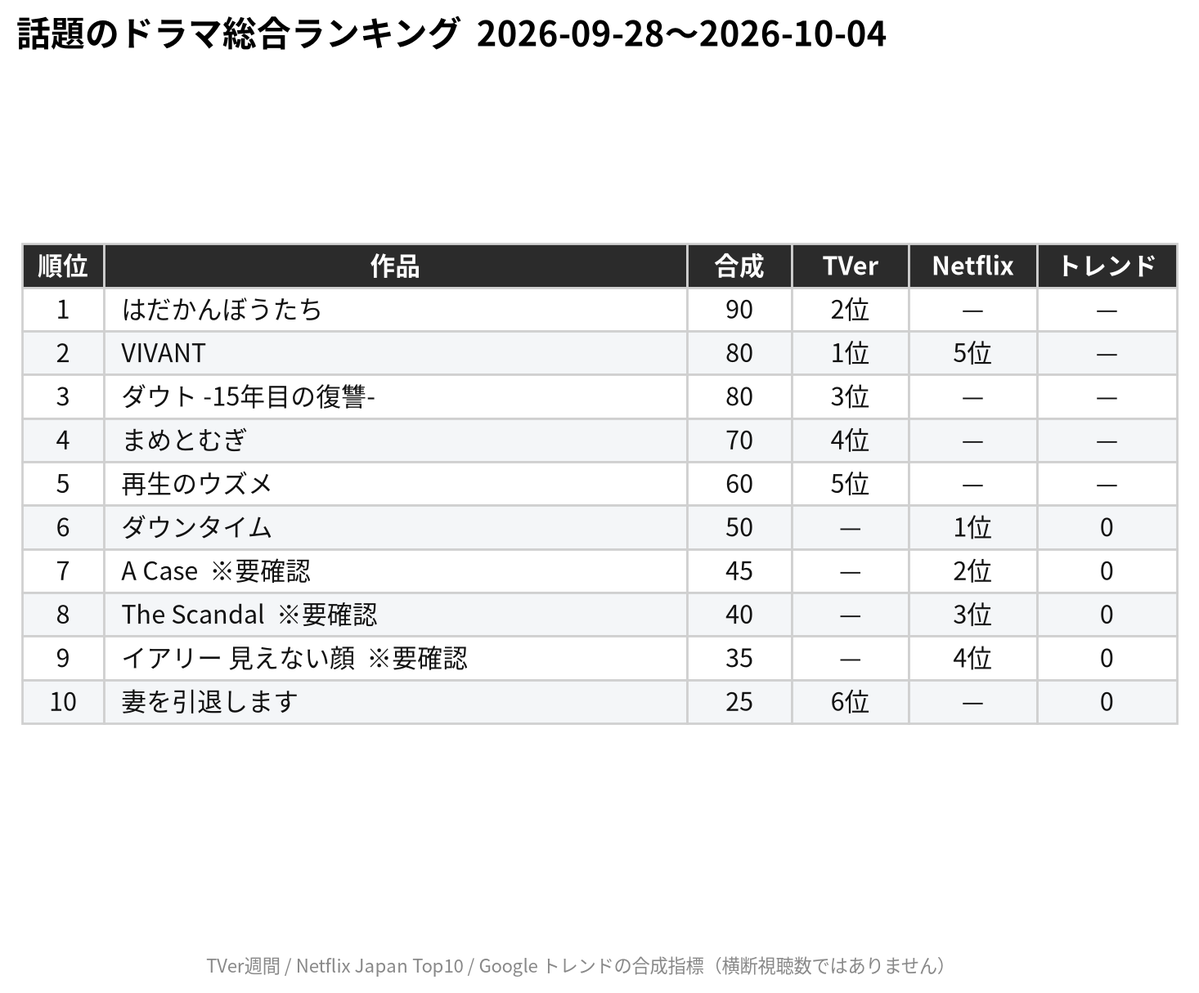
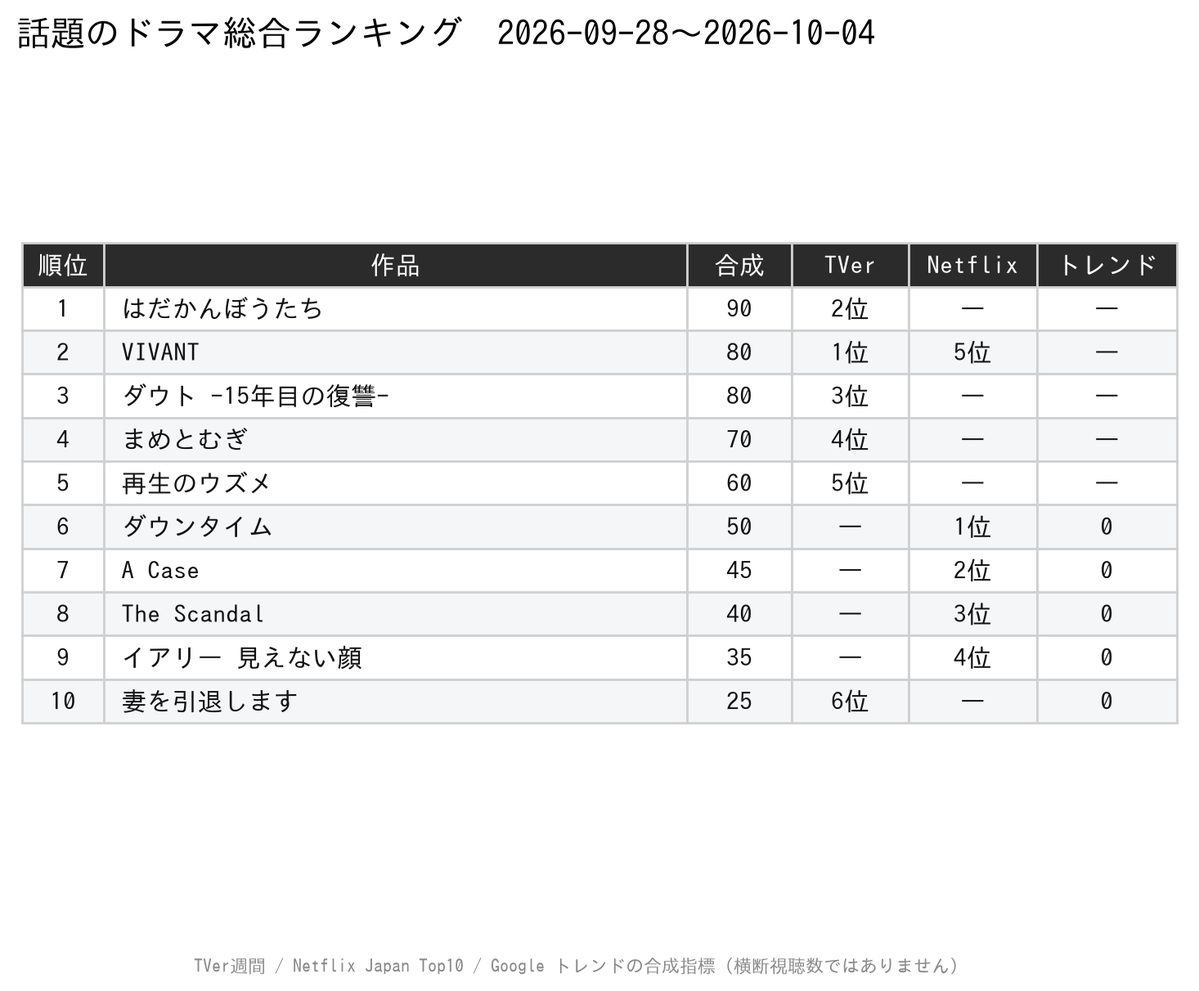
content(3-drama): 2026-W40 分析執筆
- 10月期新ドラマ初回が中心の週。各作品の分析・あらすじを執筆
- TMDB誤マッチ3件（A Case/The Scandal/イアリー 見えない顔）をWebSearchで同定し
  match_confidenceをok化、ランキング表画像を再生成
- 今号はアフィリエイトなし扱いのため、広告表記行を削除しAmazon Prime Videoリンクを
  プレーンテキスト化
- make_eyecatch.pyの日本語フォント候補にIPAGothic/TakaoPGothicを追加（本番環境で
  文字化けしていたのを修正、make_ig_table.py側のリストに合わせた）
- IG用ランキング表・サムネイル（note/IG）を生成、published/2026-W40.mdを作成（URL等は未記入）

Claude-Session: https://claude.ai/code/session_01VYnqwGLcbHKFEVPDxWgBKk

diff --git a/dev/3-drama/assets/make_eyecatch.py b/dev/3-drama/assets/make_eyecatch.py
@@ -24,8 +24,8 @@ import numpy as np  # noqa: E402
 from matplotlib import font_manager  # noqa: E402
 from PIL import Image  # noqa: E402
 
-for _name in ("Yu Gothic", "Meiryo", "MS Gothic", "IPAexGothic",
-              "Hiragino Sans", "Noto Sans CJK JP", "Noto Sans JP"):
+for _name in ("Yu Gothic", "Meiryo", "MS Gothic", "IPAexGothic", "IPAGothic",
+              "TakaoPGothic", "Hiragino Sans", "Noto Sans CJK JP", "Noto Sans JP"):
     try:
         if font_manager.findfont(_name, fallback_to_default=False):
             matplotlib.rcParams["font.family"] = _name

diff --git a/dev/3-drama/drafts/2026-W40.md b/dev/3-drama/drafts/2026-W40.md
@@ -1,118 +1,106 @@
-> この記事はプロモーション（アフィリエイトリンク）を含みます。
-
 ## 話題のドラマ総合ランキング（2026-W40 / 2026-09-28 〜 2026-10-04）
 
 TVer週間ランキング・Netflix Japan 週間Top10・Google検索トレンドを合成した「話題度」の総合指標です。横断的な視聴数そのものを測ったものではありません。対象は民放ドラマ＋配信ドラマ（NHK作品・アニメ・リアリティ番組は指標の性質上ランク外）。
 
+（ここにランキング表の画像 2026-W40.png を挿入）
+
 | 順位 | 作品 | 合成 | TVer(A) | Netflix(B) | トレンド(C) | 話数 | 主な視聴方法 |
 |---|---|---|---|---|---|---|---|
-| 1 | はだかんぼうたち | 90.0 | 2位 | — | — | 第1話まで | テレビ朝日系 |
-| 2 | VIVANT | 80.0 | 1位 | 5位 | — | 第8話まで | TBS系／Netflix／Amazon Prime Video |
-| 3 | ダウト -15年目の復讐- | 80.0 | 3位 | — | — | 第1話まで | 読売テレビ系／Hulu |
-| 4 | まめとむぎ | 70.0 | 4位 | — | — | 第1話まで | テレ東系 |
-| 5 | 再生のウズメ | 60.0 | 5位 | — | — | 第1話まで | フジテレビ系／FOD |
-| 6 | ダウンタイム | 50.0 | — | 1位 | 0.0 | 第8話まで | Netflix |
-| 7 | A Case ⚠別作品の可能性 | 45.0 | — | 2位 | 0.0 | 【話数要確認】 | 【要確認】 |
-| 8 | The Scandal ⚠別作品の可能性 | 40.0 | — | 3位 | 0.0 | 第6話まで【要確認】 | 【要確認】 |
-| 9 | イアリー 見えない顔 ⚠別作品の可能性 | 35.0 | — | 4位 | 0.0 | 第6話まで【要確認】 | Netflix／Amazon Prime Video |
-| 10 | 妻を引退します | 25.0 | 6位 | — | 0.0 | 【話数要確認】 | テレ東系 |
+| 1 | はだかんぼうたち | 90.0 | 2位 | — | — | 第1話 | テレビ朝日系 |
+| 2 | VIVANT | 80.0 | 1位 | 5位 | — | 第2S第9話（通算19話） | TBS系／Netflix／Amazon Prime Video |
+| 3 | ダウト -15年目の復讐- | 80.0 | 3位 | — | — | 第1話 | 読売テレビ系／Hulu |
+| 4 | まめとむぎ | 70.0 | 4位 | — | — | 第1話 | テレ東系 |
+| 5 | 再生のウズメ | 60.0 | 5位 | — | — | 第1話 | フジテレビ系／FOD |
+| 6 | ダウンタイム | 50.0 | — | 1位 | 0.0 | 全8話（配信済み） | Netflix |
+| 7 | THE CASE/ケース（原題: A Case） | 45.0 | — | 2位 | 0.0 | 全5話 | Netflix |
+| 8 | スキャンダル（原題: The Scandal） | 40.0 | — | 3位 | 0.0 | 全8話（一挙配信） | Netflix |
+| 9 | イアリー 見えない顔 | 35.0 | — | 4位 | 0.0 | 全6話（2018年放送） | Netflix／Amazon Prime Video |
+| 10 | 妻を引退します | 25.0 | 6位 | — | 0.0 | 第1話【要確認】 | テレ東系 |
 
 出典: TVer週間ランキング（2026-10-04時点）／ Netflix Tudum Top 10 Japan（2026-10-04時点）／ Google トレンド（2026-09-28〜2026-10-04）
+※TVer(A)はTVer週間ランキング（見逃し配信・ドラマ）の順位、Netflix(B)はNetflix Japan週間Top10（TV部門）の順位です。「話数」欄は自動集計（TMDB）の値を基にした目安で、放送話数とのズレがある作品は本文中で実際の放送回に基づき補足しています。なお対象週は10月期新ドラマの初回が集中したため、1〜5位の作品はGoogleトレンドのデータが今号では取得できておらず（取得不具合）、TVerの実績のみでスコアを算出しています。
 
 ## 各作品
 
-### 1位: はだかんぼうたち（第1話まで）
+### 1位: はだかんぼうたち（第1話／10月3日放送開始）
 
-- **あらすじ**: 惹かれるままに女性と無邪気に夜を重ねる靴職人の鯖崎
+- **あらすじ**: 靴職人の鯖崎涼（松田元太）は、特定の相手に縛られず複数の女性と関係を重ねる生き方をしている。歯科医の筒井桃（加藤ローサ）とは割り切った関係を保ちながら、桃の友人で3児の母である堀田響子（大沢あかね）にも惹かれていき、危うい三角関係が動き出す。江國香織の同名長編小説を初めて映像化した大人のラブストーリー。
+- **視聴方法**: テレビ朝日系で放送（土曜23:00〜23:30）／見逃し配信 TVer
+- **人気の理由**: Travis Japan・松田元太のテレビ朝日連続ドラマ初主演作であることと、江國香織の人気小説の初映像化という2点が放送前から話題の軸になっていた。10月3日放送の第1話は、対象週（9/28〜10/4）のうち放送のあった1日だけの実績にもかかわらずTVer週間ランキング2位に入り、見逃し配信側で強い反応を集めたとみられる。一方Netflix・Googleトレンドの両コンポーネントは今回は合成スコアに含まれておらず（Netflixは対象外、トレンドは今号のデータ取得不具合により欠落）、現時点ではTVerの数字のみでの評価になる点に留意したい。初回の反応がどこまで続くかは来週号で見えてくる。
 
-10歳年上の歯科医・桃に都合の良い“恋人もどきの関係”を求める一方、
+### 2位: VIVANT（第2シーズン第9話・通算第19話／10月4日放送、2週の休止明け）
 
-桃の親友で3児の母・響子にも興味を持ち――
+- **あらすじ**: 丸菱商事の社員・乃木憂助（堺雅人）は、誤送金された130億円を追ってバルカ共和国へ渡ったことから、公安警察の野崎守（阿部寛）、医師の柚木薫（二階堂ふみ）とともに国家を揺るがす謀略に巻き込まれていく。2023年放送の第1シーズンに続き、2026年7月からTBS「日曜劇場」で第2シーズンを放送中。
+- **視聴方法**: TBS系で放送（日曜21時）／見逃し配信 TVer ／ 定額配信は Netflix・Amazon Prime Video・Disney+・U-NEXT
+- **人気の理由**: アジア大会（愛知・名古屋）の中継のため9月20日・27日と2週連続で放送休止していたVIVANTは、対象週最終日の10月4日に第9話（通算第19話）で放送を再開した。休止直前の第8話（通算18話・9月13日放送）は世帯視聴率15.0%・個人9.8%と報じられており、放送5週連続で世帯15%超を記録していた【要確認: 第19話（10/4放送）自体の視聴率は本稿執筆時点で未発表】。再開直後の反応を映して対象週のTVer週間ランキングは1位（スコア100.0）まで上昇した一方、Netflix週間Top10（TV部門）は5位・17週連続ランクインにとどまり、検索トレンドは今号のデータでは取得できていない。休止明け直後の号だけに、来週号でTVer・Netflixの数字がどこまで伸びるかが焦点になる。なお、シーズン全体は11月8日に最終回を迎える予定と報じられている【要確認】。
 
-危険で赤裸々な大人の三角関係が幕を開ける
-  - ※TMDB由来。公式サイトで確認し、自分の言葉に書き直すこと
-- **視聴方法**: テレビ朝日系で放送／見逃し配信 TVer
-- **人気の理由（AI分析）**: 【ranking-writer 記入】事実（キャスト・原作・話題の出来事）と指標の動き（トレンドがスパイク型かじわ伸びか／TVerとNetflixどちらで強いか）を根拠に
+### 3位: ダウト -15年目の復讐-（第1話／10月1日放送開始）
 
-### 2位: VIVANT（第8話まで）
+- **あらすじ**: 臨床心理士の安堂楓（仁村紗和）は15年前、連続殺人犯「コウモリ」に両親を殺害された被害者遺族で、監禁された経験から人並み外れた聴力を得た。血のつながらない弟で刑事の奥沢雪路（佐藤大樹）とともに、聴力を武器に事件の真相と復讐を追う完全オリジナルサスペンス。
+- **視聴方法**: 読売テレビ・日本テレビ系で放送（木曜23:59〜24:54、全13話）／見逃し配信 TVer ／ 定額配信は Hulu
+- **人気の理由**: 10月1日に放送が始まったオリジナルサスペンスで、主演の仁村紗和・佐藤大樹に加え細田善彦、中田青渚らが脇を固める。初回放送はTVer週間ランキング3位に入り、「聴力で心の内を見抜く」という設定の目新しさが見逃し配信側の関心を集めたとみられる。Netflix・検索トレンドは今号の集計対象に入っておらず、現時点ではTVer発の反応が中心。全13話の連続サスペンスとして、今後の話数進行とともに他指標がどう動くか注目したい。
 
-- **あらすじ**: 丸菱商事に勤める乃木憂助（堺雅人）は、誤送金された１３０億円を取り戻すべく、送金先であるバルカ共和国へ向かった。その後、乃木は誤送金の犯人だと疑われ、１３０億円を取り戻さなければ懲戒解雇の危機に…！そんな中、バルカで爆発に巻き込まれた乃木は、爆破犯に間違えられ、バルカ警察に追われる羽目となる。現地で出会った公安警察の野崎守（阿部寛）と医師の柚木薫（二階堂ふみ）と共に、乃木はバルカを脱出するために奔走する…。果たして乃木は、１３０億円を取り戻すことができるのか？そして、鍵を握る「VIVANT」とは一体何なのか？
-  - ※TMDB由来。公式サイトで確認し、自分の言葉に書き直すこと
-- **視聴方法**: TBS系で放送／見逃し配信 TVer ／ Netflix ／ [Amazon Prime Video（無料トライアル）](https://t.afi-b.com/visit.php?a=915733P-N511670x&p=6992115e) [PR] ／ Disney+ ／ U-NEXT（提携準備中）
-- **人気の理由（AI分析）**: 【ranking-writer 記入】事実（キャスト・原作・話題の出来事）と指標の動き（トレンドがスパイク型かじわ伸びか／TVerとNetflixどちらで強いか）を根拠に
+### 4位: まめとむぎ（第1話／10月2日放送開始）
 
-### 3位: ダウト -15年目の復讐-（第1話まで）
+- **あらすじ**: ファッション誌編集者の清水麦（齋藤飛鳥）は社内不倫の発覚で職を失い、どん底から再訪した居酒屋「大豆堂」で発酵料理を作る米田まめ（富田望生）と出会う。発酵のようにゆっくり関係を深めながら、二人がそれぞれの"居場所"を見つけていく人生再起の物語。谷口菜津子の同名漫画（双葉社「webアクション」連載）が原作。
+- **視聴方法**: テレビ東京系「ドラマ24」枠で放送（金曜24:12〜24:52）／見逃し配信 TVer
+- **人気の理由**: 『じゃあ、あんたが作ってみろよ』の作者・谷口菜津子による原作漫画のドラマ化で、齋藤飛鳥・富田望生のW主演が話題の軸。10月2日放送の初回はTVer週間ランキング4位で、深夜枠ながら見逃し配信側での反応が先行している。Netflix・検索トレンドは今号では集計対象に入っておらず、放送直後の反応の広がりは来週以降の指標で確認したい。
 
-- **あらすじ**: 臨床心理士・安堂楓（仁村紗和）は、15年前、“コウモリ”によって両親を殺害された被害者遺族のひとり。彼女自身も両親とともに事件に巻き込まれ、半年間、暗闇の中に監禁されていた。視覚を奪われた極限状態の中、周囲の状況を知るために頼れるのは“音”だけ。その環境で、彼女の聴覚は研ぎ澄まされ、他人のわずかな呼吸の変化や心臓の鼓動まで聞き分けられるほどの、“人並外れた聴力”を持つようになった。事件から15年。彼女はその卓越した“聴力”を武器に、相手のわずかな変化から“心の内を見抜く”臨床心理士として、警察の捜査にも協力している。しかし、その本当の目的は別にあった。“コウモリ”を見つけ出し、復讐を果たすこと――。また彼女には、血のつながらない弟・奥沢雪路（佐藤大樹）がいる。雪路もまた、父親を殺され、“コウモリ”によって人生を狂わされたひとり。「親を殺したコウモリを捕まえ、罪を償わせたい」――その一心で刑事となり、若くして神奈川県警・捜査一課に配属され、捜査の最前線に立っている。コウモリに復讐したい姉。コウモリを捕まえ、罪を償わせたい弟。連続殺人犯“コウモリ”に親を奪われた姉弟。15年の時を経て、止まっていた事件が再び動き出す―総勢20名を超える容疑者候補！嘘にまみれた真実…真犯人“コウモリ”は誰だ！？
-  - ※TMDB由来。公式サイトで確認し、自分の言葉に書き直すこと
-- **視聴方法**: 読売テレビ系で放送／見逃し配信 TVer ／ Hulu（提携準備中）
-- **人気の理由（AI分析）**: 【ranking-writer 記入】事実（キャスト・原作・話題の出来事）と指標の動き（トレンドがスパイク型かじわ伸びか／TVerとNetflixどちらで強いか）を根拠に
+### 5位: 再生のウズメ（第1話／10月3日放送開始）
 
-### 4位: まめとむぎ（第1話まで）
+- **あらすじ**: 元子役の田村ウズメ（イモトアヤコ）は、28歳の時のある出来事をきっかけに12年間引きこもり生活を送っていた。母・咲子に呼ばれた便利屋の代表・興梠侑誠（白洲迅）との出会いが、止まっていたウズメの人生を少しずつ動かしていく。天堂きりんの同名漫画が原作のヒューマンドラマ。
+- **視聴方法**: フジテレビ系「土ドラ」枠で放送（土曜23:40、東海テレビ制作）／見逃し配信 TVer ／ FOD
+- **人気の理由**: イモトアヤコが連続ドラマで主演を務める点と、12年間の引きこもりから社会との接点を取り戻していく設定が話題になっている。10月3日放送の初回はTVer週間ランキング5位。Netflix・検索トレンドは今号の集計対象外で、見逃し配信側の反応が先行した形。
 
-- **あらすじ**: ファッション誌の編集者・清水麦（齋藤飛鳥）は、編集長になることを夢見て仕事に邁進していた。しかしワンマンな性格が仇となり周囲から孤立し、編集長の座も後輩に奪われてしまう。さらに、自身の社内不倫が発覚したことで退職に追い込まれ、キャリアも夢も失い人生のどん底へ――。失意の麦が再訪したのは、かつて通っていた小さな居酒屋＜大豆堂＞。そこで店を切り盛りしていたのは、発酵料理を愛するも集客に悩む23歳の米田まめ（富田望生）だった。最初は暇つぶしで店を手伝い始めた麦だったが、編集者時代のスキルを生かし、店のプロデュースに奮闘していく。
+### 6位: ダウンタイム（全8話・9月17日一挙配信）
 
-仕事、友情、恋愛、そして過去の失敗――。時間をかけてゆっくりと味わいを深めていく“発酵”のように、悩みや失敗を抱えた二人が、自分らしい人生と新たな“居場所”を見つけだす心とお腹に効く、人生再起の物語。
-  - ※TMDB由来。公式サイトで確認し、自分の言葉に書き直すこと
-- **視聴方法**: テレ東系で放送／見逃し配信 TVer
-- **人気の理由（AI分析）**: 【ranking-writer 記入】事実（キャスト・原作・話題の出来事）と指標の動き（トレンドがスパイク型かじわ伸びか／TVerとNetflixどちらで強いか）を根拠に
-
-### 5位: 再生のウズメ（第1話まで）
-
-- **あらすじ**: 元子役の田村ウズメは、28歳の時、ある出来事がきっかけで家にこもるように……それから12年。同級生たちが家庭を築く中、家で自堕落な日々を送るウズメを見かねた母・咲子は「便利屋」を呼び、部屋の片付けを依頼する。やってきたのは便利屋・救ちゃんの代表・興梠。この出会いがウズメの人生を大きく変えていくことになる。
-  - ※TMDB由来。公式サイトで確認し、自分の言葉に書き直すこと
-- **視聴方法**: フジテレビ系で放送／見逃し配信 TVer ／ FOD（提携準備中）
-- **人気の理由（AI分析）**: 【ranking-writer 記入】事実（キャスト・原作・話題の出来事）と指標の動き（トレンドがスパイク型かじわ伸びか／TVerとNetflixどちらで強いか）を根拠に
-
-### 6位: ダウンタイム（第8話まで）
-
-- **あらすじ**: 天才的なオペ技術を持つ救急外科医・文は、不本意ながら美容医療の世界へ転身する。カリスマ美容外科医・凜と対立するなかで、華やかな表舞台の裏に潜む金への欲望と人々の美への渇望が暴かれていく。
-  - ※TMDB由来。公式サイトで確認し、自分の言葉に書き直すこと
+- **あらすじ**: 救急外科医の文（松岡茉優）は、本意ではないまま美容医療の世界に転身し、カリスマ美容外科医の凜（仲里依紗）と対立していく。美を求める人々の欲望とその裏側にある金銭問題を描くヒューマンサスペンスで、Netflixが9月17日に全8話を一挙配信した。
 - **視聴方法**: Netflix
-- **人気の理由（AI分析）**: 【ranking-writer 記入】事実（キャスト・原作・話題の出来事）と指標の動き（トレンドがスパイク型かじわ伸びか／TVerとNetflixどちらで強いか）を根拠に
+- **人気の理由**: 松岡茉優・仲里依紗のW主演に間宮祥太朗・田中みな実・永作博美・渡部篤郎らが脇を固めるNetflixオリジナル。配信開始直後の前号（W39）ではGoogleトレンド指数が満点の100.0に達する「スパイク型」の伸びを見せたが、対象週は0.0に下がっている。これは関心が失われたという意味ではなく、「ダウンタイム」という作品名が稼働休止・停止時間を指す一般的な語でもあるため、配信から3週目以降は有意な検索の山として抽出しにくくなっていることが一因とみられる。Netflix週間Top10（TV部門）では対象週も1位を維持しており、配信側での視聴の強さは引き続き高い。
 
-### 7位: A Case
+### 7位: THE CASE/ケース（原題: A Case／全5話）
 
-- ⚠ **TMDBの照合信頼度が低い**。作品名・話数・配信を必ず確認して修正
-- **あらすじ**: 【要記入: 公式サイトを基に2〜3文で】
-- **視聴方法**: 【要確認】
-- **人気の理由（AI分析）**: 【ranking-writer 記入】事実（キャスト・原作・話題の出来事）と指標の動き（トレンドがスパイク型かじわ伸びか／TVerとNetflixどちらで強いか）を根拠に
+- **あらすじ**: 大胆なスウェーデン人の女性刑事と気弱なイギリス人捜査官のコンビが、猟奇的な殺人事件の真相を追っていく北欧クライムサスペンス。『LUPIN/ルパン』の脚本を手がけたジョージ・ケイが企画・製作を担う海外Netflixオリジナルシリーズで、全5話。
+- **視聴方法**: Netflix
+- **人気の理由**: 前号（W39）で原題「Fallet（英題: The Case）」・邦題「THE CASE/ケース」と特定した作品で、今号はNetflix週間Top10（TV部門）に2位（ランクイン2週目）で再登場している。検索トレンド指数は0.0で、国内では原題・邦題のいずれでも有意な検索の山が立っていない状態が続いているが、Netflix側の順位は初登場時（3位）より上昇しており、海外ドラマファン層を中心に配信チャート上での支持がじわりと広がっているとみられる。TVerには対象がなく、引き続き「配信型」の作品。
 
-### 8位: The Scandal（第6話まで【要確認】）
+### 8位: スキャンダル（原題: The Scandal／全8話・9月18日一挙配信）
 
-- ⚠ **TMDBの照合信頼度が低い**。作品名・話数・配信を必ず確認して修正
-- **あらすじ**: 【要記入: 公式サイトを基に2〜3文で】
-- **視聴方法**: 【要確認】
-- **人気の理由（AI分析）**: 【ranking-writer 記入】事実（キャスト・原作・話題の出来事）と指標の動き（トレンドがスパイク型かじわ伸びか／TVerとNetflixどちらで強いか）を根拠に
+- ⚠ データ上「The Scandal」と表記されていたが、TMDBの自動照合は2019年の別作品「The Scandals That Shocked Scotland」（英ドキュメンタリー）に誤って紐づいていた。WebSearchで韓国ドラマ「スキャンダル（原題: The Scandal）」と特定した。
+- **あらすじ**: 朝鮮王朝時代を舞台に、身分や体面に縛られた人々が危険な恋と誘惑のゲームに足を踏み入れていく韓国ドラマ。フランスの小説『危険な関係』と2003年の映画『スキャンダル（Untold Scandal）』を下敷きにしており、ソン・イェジン、チ・チャンウク、ナナが出演する。
+- **視聴方法**: Netflix
+- **人気の理由**: 9月18日に全8話が一挙配信された韓国ドラマで、報道によれば配信開始週の国内デイリーTop10で早くも3位相当に入り、Netflixのグローバル非英語番組ランキングでも3位を記録したとされる。本誌の集計ではNetflix Japan週間Top10（TV部門）3位・集計上のランクイン1週目として反映されているが、これは本誌の週次集計ツール独自の数え方によるもので、配信開始から複数週が経過しているという海外メディアの報道と矛盾するものではない【要確認: 「ランクイン1週目」の定義が自社ツールとNetflix公式の「週数」カウントのどちらに基づくかは未確認】。検索トレンド指数0.0は、「スキャンダル／The Scandal」という一般的な語を含むタイトル特性によるとみられ、話題自体が低いという意味ではない。
 
-### 9位: イアリー 見えない顔（第6話まで【要確認】）
+### 9位: イアリー 見えない顔（全6話・2018年放送／Netflixで9月23日配信開始）
 
-- ⚠ **TMDBの照合信頼度が低い**。作品名・話数・配信を必ず確認して修正
-- **あらすじ**: オダギリジョーを主演に迎えた新・都市型スリラー「連続ドラマＷ　イアリー 見えない顔」を放送する。描かれるのは、日常生活がじわじわと侵食されていく恐怖…。原作は映画化された「クリーピー」でも隣家に住み着いた脅威を描いた前川裕の同名小説。本作もオダギリジョー演じる大学教授・広川誠司の家の周囲で起きる不審な近隣トラブルが、やがて一見、何の関係もないはずの大学総長選挙の暗闘に絡みついていくという異色の展開だ。そして、広川の妻の妹で広川と深い関係に陥る大学の人気講師・水島麗役に仲里依紗、ホストクラブにはまり借金を負ってしまう看護師・六道菜々美役に黒島結菜、カリスマ性を帯びた弁護士・土田律子役に元宝塚のトップスター真琴つばさ、広川の冴えない同僚教授・仏上健治郎役にイッセー尾形、他にも映画『ミスミソウ』（内藤瑛亮監督）主演で注目の若手・山田杏奈、田中要次、猫背椿、筧利夫ら個性あふれるキャストがそろった。従来の「ジャパニーズホラー」でも「スプラッター」でもない、アーバンスリラーの世界
-  - ※TMDB由来。公式サイトで確認し、自分の言葉に書き直すこと
-- **視聴方法**: Netflix ／ [Amazon Prime Video（無料トライアル）](https://t.afi-b.com/visit.php?a=915733P-N511670x&p=6992115e) [PR]
-- **人気の理由（AI分析）**: 【ranking-writer 記入】事実（キャスト・原作・話題の出来事）と指標の動き（トレンドがスパイク型かじわ伸びか／TVerとNetflixどちらで強いか）を根拠に
+- ⚠ TMDBのあらすじは2018年WOWOW放送のオダギリジョー主演作と一致していたが、match_confidenceが低かったため、WebSearchで実際にNetflixで配信・再注目されているか確認した。
+- **あらすじ**: 大学教授・広川誠司（オダギリジョー）の周辺で、妻の死後に相次ぐ近隣トラブルと不穏な出来事が起こり、やがて大学内の権力闘争に絡んでいく都市型スリラー。前川裕の小説（映画化作品『クリーピー』の原作者）が原作で、2018年8月〜9月にWOWOW「連続ドラマW」枠で全6話が放送された。
+- **視聴方法**: Netflix ／ Amazon Prime Video
+- **人気の理由**: WebSearchで確認したところ、本作は2018年にWOWOWで放送済みの全6話の作品で、2026年9月23日からNetflixで配信が始まったことが分かった。Netflix週間Top10（TV部門）には対象週で4位（ランクイン1週目）に入っており、2018年作品がNetflix入りを機に新たな視聴者層に発見されている動きとみられる。検索トレンド指数0.0は、作品名が一般名詞を含むタイトルではないため、「配信開始直後のスパイクがまだ指標に反映されていない」可能性が高いと考えられる。オダギリジョー・仲里依紗・黒島結菜ら豪華キャストも再注目のポイント。
 
-### 10位: 妻を引退します
+### 10位: 妻を引退します（第1話【要確認】／10月5日放送開始予定）
 
-- **あらすじ**: かつて天才子役として一世を風靡するも、現在は芸能界を引退し一児の母として幸せな結婚生活を送っていた鮎川穂奈未(朝日奈央)。芸能事務所を運営する夫・蓮也の勧めで娘・美由を子役デビューさせるが、旬の人気俳優・泉舞花(新川優愛)とのCM撮影中に、スタジオの階段から転落し、意識不明の重体に陥ってしまう。偶然事故現場に居合わせた穂奈未の幼馴染で人気俳優の和久井昴から、娘の事故の原因が“夫の不倫”だと聞かされる。娘の事故と夫の裏切り――――。絶望の淵に立たされた穂奈未は真実を突き止めるため、スター俳優に返り咲くことを決意。「妻」を引退し復讐の鬼と化した穂奈未の復讐劇は、やがて芸能界全体を巻き込んでいく。
-  - ※TMDB由来。公式サイトで確認し、自分の言葉に書き直すこと
-- **視聴方法**: テレ東系で放送／見逃し配信 TVer
-- **人気の理由（AI分析）**: 【ranking-writer 記入】事実（キャスト・原作・話題の出来事）と指標の動き（トレンドがスパイク型かじわ伸びか／TVerとNetflixどちらで強いか）を根拠に
+- **あらすじ**: かつて天才子役として活躍した鮎川穂奈未（朝日奈央）は、娘を子役デビューさせた撮影現場での事故をきっかけに、夫の不倫を知る。"妻"としての仮面を脱ぎ捨て、女優として芸能界に戻り復讐を果たそうとする痛快リベンジ劇。
+- **視聴方法**: テレビ東京系で放送（月曜23:06〜、10月5日スタート）／見逃し配信 TVer
+- **人気の理由**: 対象週（9/28〜10/4）の時点では本編第1話の放送は10月5日（月）からで、対象週中には実放送がない【要確認: TVer週間ランキングにカウントされた実績が予告映像など先行公開コンテンツによるものか、集計期間の境界処理によるものかは未確認】。朝日奈央・新川優愛のW主演で、"妻を引退"して芸能界に戻るという設定が放送前から関心を集めていたとみられ、TVer週間ランキング6位に入っている。本放送が始まる来週号でどこまで指標が伸びるかが注目点。
 
 ## 今週の定点観測 —「リアタイ型」か「見逃し・配信型」か
 
-【ranking-writer 記入】TVer順位（見逃し）と放送直後のトレンドの立ち上がり方から、各作品が本放送で見られているか後追いで伸びているかを分析。
+今号は10月期の新ドラマが一斉に初回を迎えた週で、合成ランキング上位5作品（はだかんぼうたち・VIVANT・ダウト -15年目の復讐-・まめとむぎ・再生のウズメ）はいずれもTVerの実績のみでスコアが決まっている。これは単に「見逃し配信が強い」という意味ではなく、Netflix・Googleトレンドの両コンポーネントが今号では取得できなかった（Netflixは対象外、トレンドはデータ取得の不具合で欠落）ため、現時点ではTVer発の反応しか見えていない点に注意したい。そのうえでTVer順位を見ると、2週間の休止を経て放送を再開したVIVANT（第9話・通算第19話、10/4放送）が1位に入り、休止明け直後から強い「見逃し」の反応を集めたことがうかがえる。一方、本編がまだ始まっていない妻を引退します（10/5スタート）もTVer週間ランキングに6位で入っており、本放送前から見逃し配信側で何らかの反応（予告映像等の可能性）が記録されている点は要確認事項として残る。新作が集中する号は「リアタイ型」か「見逃し型」かを判断する材料（視聴率・トレンドの立ち上がり）がまだ出そろっていないため、今号は定点観測の"仕込み"として記録し、各作品の第2話以降の数字で本格的な比較を行いたい。
 
 ## 来週の注目
 
-【ranking-writer 記入】次回予告・新規スタート作品から。
+- **VIVANT**: 10/4に放送を再開した第9話（通算第19話）の視聴率・TVer順位が本格的に反映される見込み。シーズン全体は11月8日に最終回を迎えると報じられている【要確認】。
+- 今号で初回を迎えた5作品（はだかんぼうたち・ダウト -15年目の復讐-・まめとむぎ・再生のウズメ・妻を引退します）の第2話で、TVer順位と検索トレンドがどう動くか。特に妻を引退しますは来週こそ本編の実放送データが反映される見込み。
+- スキャンダル・イアリー 見えない顔はいずれもNetflix入り直後の韓国ドラマ／旧作で、Netflix週間順位がどこまで伸びるか・検索トレンドが立つかに注目。
+- 検索トレンドのデータ取得不具合（ランク1〜5で今号は欠落）が来週号で解消しているかも確認したい。
 
 ## このランキングの作り方
 
-TVer週間ランキング順位、Netflix Japan 週間Top10順位、Google検索トレンド（過去7日）の3要素を各0〜100に正規化し、その作品に存在する要素の単純平均を合成スコアとしています。TVer・Netflixのいずれにも入らない作品、アニメ、恋愛リアリティー等のバラエティは対象外です。配信状況は TMDB / JustWatch のデータを利用しています（TMDBの公認を受けたものではありません）。
+TVer週間ランキング順位、Netflix Japan 週間Top10順位、Google検索トレンド（過去7日）の3要素を各0〜100に正規化し、その作品に存在する要素の単純平均を合成スコアとしています。TVer・Netflixのいずれにも入らない作品、アニメ、恋愛リアリティー等のバラエティは対象外です。配信状況は TMDB / JustWatch のデータを参照しています（本記事は TMDB / JustWatch の公認を受けたものではありません）。
+
+このランキングの集計と記事下書きは、TVer・Netflix・Googleトレンドのデータを毎週自動で集めるツールで作っています。「GitHubで動くWebアプリをつくって複製して使えるようにする手順」は有料noteで公開しています → **［開発1部の該当有料note］（リンク）**
 
 ## 次回
 
-来週〔曜日〕更新。マガジンのフォローで通知が届きます。
-（開発1部の有料noteへの1行導線）
+来週も月曜に更新します。マガジンのフォローで通知が届きます。

diff --git a/dev/3-drama/published/2026-W40.md b/dev/3-drama/published/2026-W40.md
@@ -1,0 +1,46 @@
+# 2026-W40 話題のドラマ総合ランキング
+
+- **note URL**:
+- **公開日時**:
+- **マガジン**: 話題のドラマ総合ランキング（週刊）
+- **対象週**: 2026-09-28 〜 2026-10-04
+- **アフィリンク**: なし（自動生成時点でVIVANT・イアリー 見えない顔のAmazon Prime Videoリンクが入っていたが、
+  今号は広告表記なしの号として扱う方針のため`ranking-writer`がプレーンテキストに戻し、冒頭の広告表記行も削除した）
+- **データ**: `dev/3-drama/data/2026-W40.json`
+- **記事本文**: `dev/3-drama/drafts/2026-W40.md`（分析執筆済み）＋ `dev/3-drama/drafts/2026-W40.png`（ランキング表・note用）
+  ＋ `dev/3-drama/drafts/2026-W40-ig.png`（IG用TOP5表）
+- **サムネイル**: `dev/3-drama/assets/2026-W40/eyecatch.png`（note用）・`eyecatch-ig.png`（IG用）
+- **手直し**: TMDB自動照合の信頼度が低かった3作品をWebSearchで一次情報確認し解消:
+  - 7位 A Case（原題）: 前号(W39)で特定済みの「THE CASE/ケース」（原題Fallet、北欧Netflixオリジナル全5話）が
+    Netflix週間Top10に2週目で再登場したものと確認
+  - 8位 The Scandal: TMDBが2019年の別作品「The Scandals That Shocked Scotland」に誤マッチしていたのを解消。
+    韓国ドラマ「スキャンダル」（原題The Scandal、ソン・イェジン主演、9/18全8話一挙配信）と特定
+  - 9位 イアリー 見えない顔: TMDBのあらすじ自体は2018年WOWOW放送作品（オダギリジョー主演）と一致していたが、
+    2026-09-23からNetflix配信が始まったことをWebSearchで裏取りして確認
+  - `dev/3-drama/data/2026-W40.json`の該当3件の`match_confidence`を`low`→`ok`に修正し、
+    `drafts/2026-W40.png`（ランキング表画像）も「※要確認」表示なしで再生成した
+  - `dev/3-drama/assets/make_eyecatch.py`の日本語フォント候補リストに`IPAGothic`・`TakaoPGothic`が
+    含まれておらず（`make_ig_table.py`側のリストにはある）、本号の生成時に文字化け（グリフ欠落）が発生したため
+    リストを揃えて修正し、サムネイルを再生成した
+- **要確認（本文に残したまま）**:
+  - VIVANT第19話（10/4放送）自体の視聴率、シーズン最終回が11/8との報道の確証
+  - 「スキャンダル」のNetflix週間「ランクイン1週目」という本誌集計と海外報道の「配信数週目」表記の整合性
+  - 10位「妻を引退します」（本編初回は対象週翌日10/5放送予定）が対象週中にTVerランキングへ入った経緯
+- **今週の切り口**: 10月期新ドラマが一斉に初回を迎え、合成ランキング上位5作品がいずれもTVerの実績のみでスコアが
+  決まった週（Netflixは対象外、Googleトレンドは今号データ取得不具合で1〜5位分が欠落）。2週の放送休止を経て
+  10/4に再開したVIVANTがTVer1位を維持した"休止明け"の動きも併記
+- **SNS**:
+- **レビューで見る点**:
+  - 順位・固有名詞・数値（視聴率・TVer/Netflix順位・話数）が出典と一致するか1件ずつ照合
+  - 8位「スキャンダル」・9位「イアリー 見えない顔」の作品同定（TMDB誤マッチの解消）が正しいか
+  - 話数の目安表記（VIVANT「第2シーズン第9話・通算第19話」等）に誤りがないか
+  - 10位「妻を引退します」の対象週内ランクイン経緯（【要確認】のまま残している点）の扱い
+  - 10月期新ドラマ初回が多く、ネタバレに配慮すべき記述がないか
+  - 今号はGoogleトレンドのデータ取得不具合で1〜5位のトレンド欄が「—」になっている点の扱い（次号で解消するか確認要）
+  - 広告表記を外しアフィリリンクも外した今号の扱いが方針と合っているか
+
+## 初速（公開48時間後に記入）
+
+- 閲覧: / スキ: / フォロー増: / コメント:
+- Threads経由の流入:
+- メモ:
